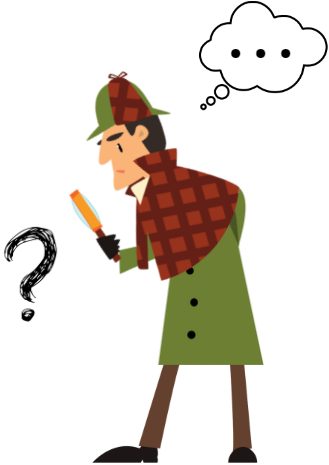
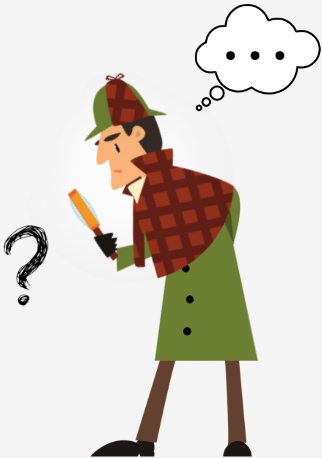
Cambio de foto Sherlock

diff --git a/style Encriptador.css b/style Encriptador.css
@@ -79,7 +79,7 @@ main{
 }
 
 #mensaje{
-    background: white;
+    background: #F4F4F4;
     background-image: url(Sherlock.png);
     background-repeat: no-repeat;
     background-position: center;
